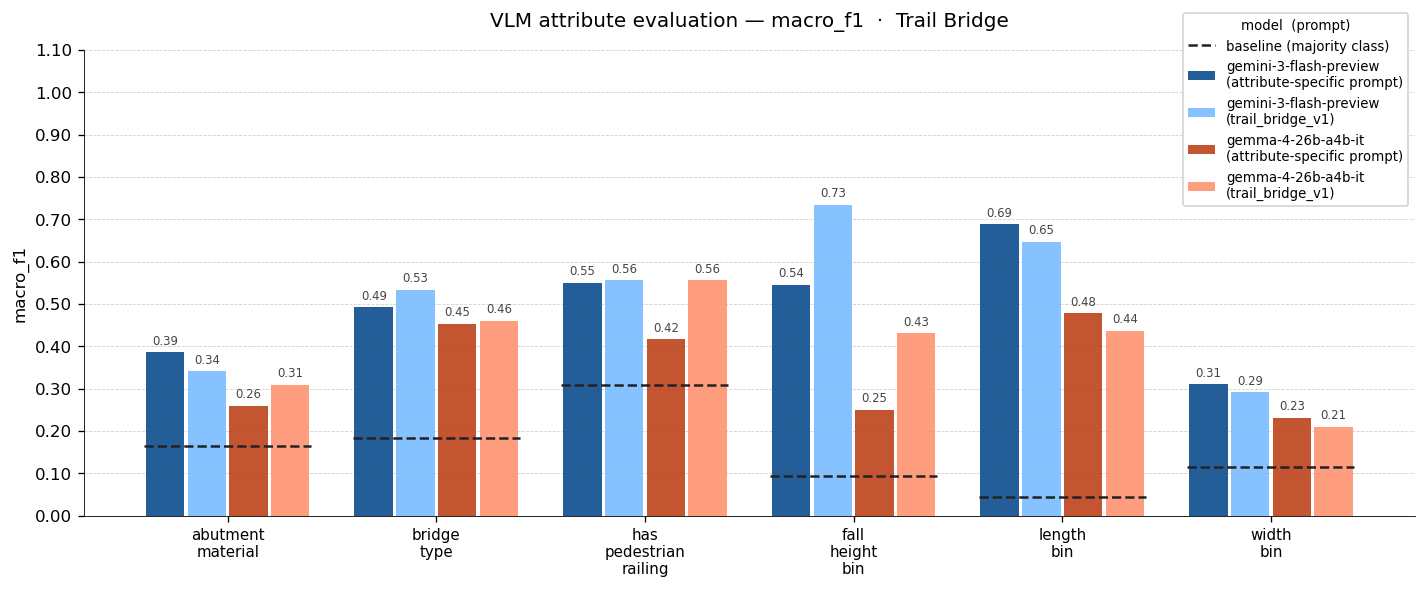
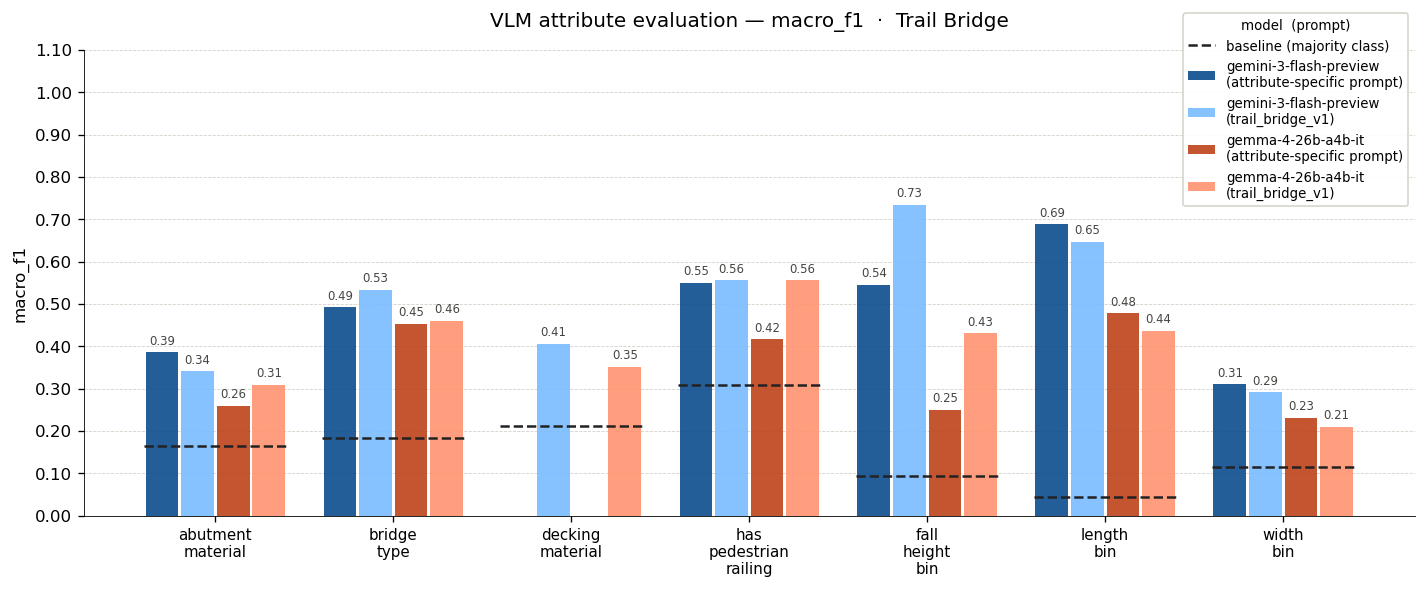
updating plots to include decking material

Changed region(s): [[0.1234, 0.3056, 0.9257, 0.9779], [0.0926, 0.5501, 0.1234, 0.5806]]

diff --git a/scripts/plot_eval_results.py b/scripts/plot_eval_results.py
@@ -114,8 +114,8 @@ def plot_comparison(
     
     #delete later, adding for now to exclude decking material from plot
 
-    EXCLUDE_ATTRIBUTES = ["attr_decking_material", "attr_structure_material", "attr_structure_position"]
-    df = df[~df["attribute"].isin(EXCLUDE_ATTRIBUTES)]
+    #EXCLUDE_ATTRIBUTES = ["attr_decking_material", "attr_structure_material", "attr_structure_position"]
+    #df = df[~df["attribute"].isin(EXCLUDE_ATTRIBUTES)]
 
     # group key: model + prompt_version
     df = df.copy()
